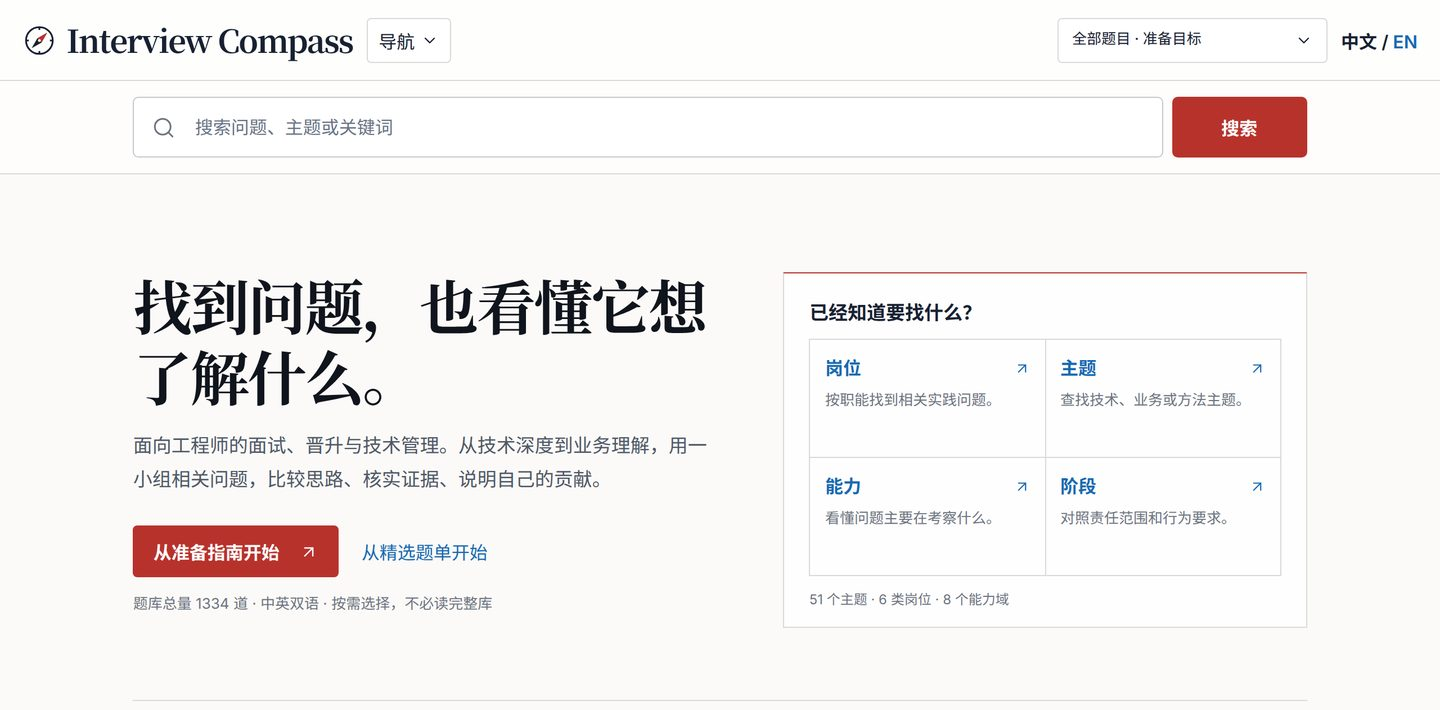
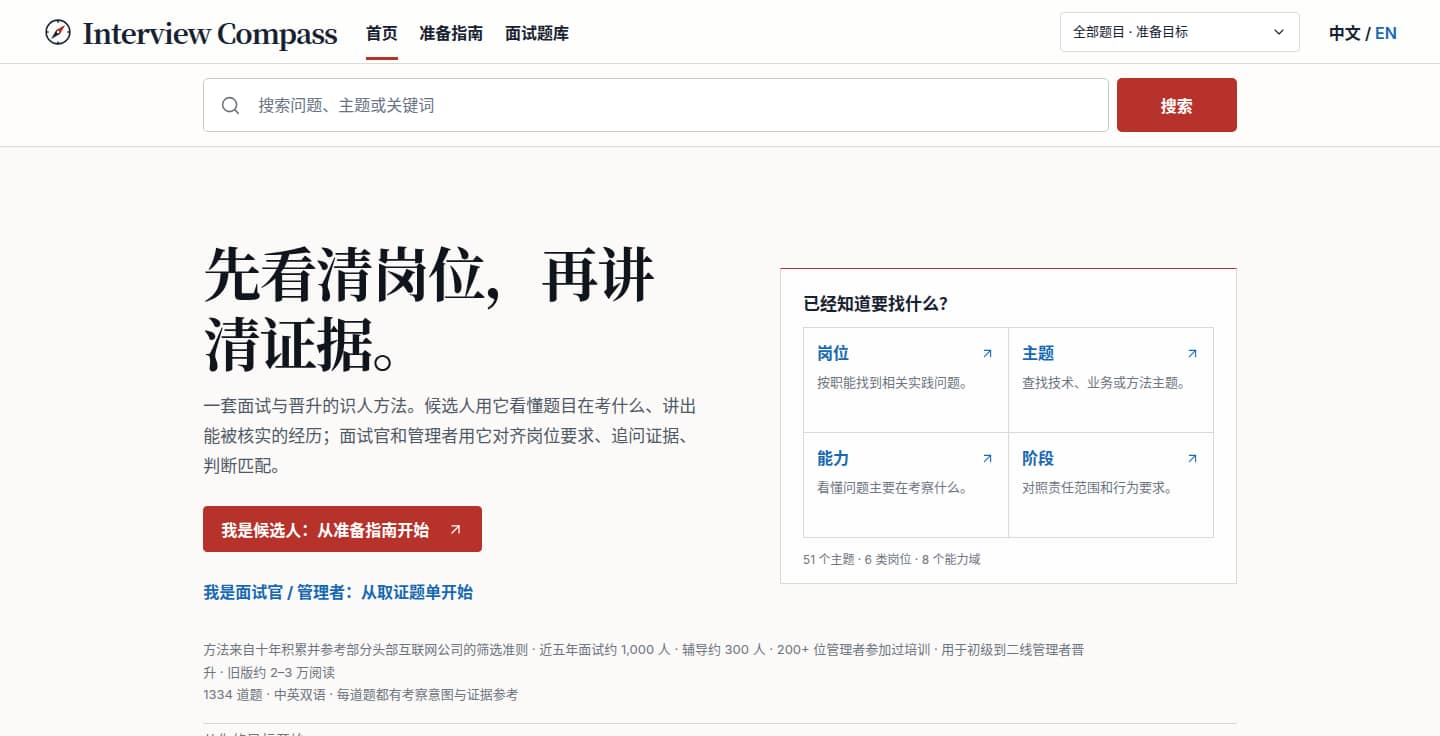
Position the site around knowing the role and showing evidence.
Put the shared slogan on the homepage, README, and approach page, add the approved practice record, and show the refund-timeout question as the method example.

diff --git a/src/styles/reading.css b/src/styles/reading.css
@@ -48,7 +48,7 @@
 .skip-link:focus { left: 12px; }
 .crumb-sep { color: var(--muted); }
 .hero { padding: 18px 0 8px; }
-.hero-compass { display: grid; grid-template-columns: minmax(0, 1.05fr) minmax(360px, .95fr); gap: clamp(28px, 5vw, 76px); align-items: center; padding: clamp(34px, 5vw, 68px) 0 clamp(38px, 5vw, 64px); border-bottom: 1px solid var(--line); }
+.hero-compass { display: grid; grid-template-columns: minmax(0, 1.05fr) minmax(360px, .95fr); gap: clamp(28px, 5vw, 76px); align-items: center; padding: clamp(34px, 5vw, 68px) 0 22px; }
 .hero-copy { max-width: 660px; }
 .hero-copy .eyebrow { color: var(--red); font-size: 12px; font-weight: 700; letter-spacing: .11em; }
 .hero-copy .page-title { max-width: 640px; margin-bottom: 16px; font-size: clamp(36px, 4.1vw, 58px); line-height: 1.2; }
@@ -56,7 +56,31 @@
 .hero-actions { display: flex; align-items: center; flex-wrap: wrap; gap: 16px 20px; margin-top: 25px; }
 .hero-primary { display: inline-flex; align-items: center; gap: 18px; min-height: 46px; padding: 0 17px; border: 1px solid var(--red); border-radius: 4px; background: var(--red); color: #fff; font-weight: 650; }
 .hero-primary:hover { background: #982b26; color: #fff; text-decoration: none; }
+.hero-secondary { display: inline-flex; align-items: center; min-height: 46px; font-weight: 650; }
 .hero-count { color: var(--muted); font-size: 13px; }
+.home-endorsement { padding: 2px 0 18px; border-bottom: 1px solid var(--line); }
+.home-endorsement p { max-width: 108ch; margin: 0; color: var(--muted); font-size: 13px; line-height: 1.7; }
+.home-endorsement-facts { color: #3d4654; }
+.home-endorsement-library { margin-top: 4px; }
+.home-method { padding: 6px 0 28px; border-bottom: 1px solid var(--line); }
+.home-method-lead { max-width: 72ch; margin: 0 0 16px; color: var(--muted); line-height: 1.7; }
+.home-method-card { padding: 18px 20px 16px; border: 1px solid var(--line); border-top: 3px solid var(--red); background: rgba(255,255,255,.72); }
+.home-method-card h3 { margin: 0 0 8px; font-size: 20px; line-height: 1.45; }
+.home-method-card h3 a { color: var(--ink); }
+.home-method-question { margin: 0 0 16px; color: #4f5866; line-height: 1.7; }
+.home-method-grid { display: grid; grid-template-columns: minmax(0, 1.05fr) minmax(0, 1.2fr) minmax(0, .95fr); gap: 18px 28px; }
+.home-method-grid h4 { margin: 0 0 8px; font-size: 13px; letter-spacing: .04em; color: var(--red); }
+.home-method-grid p, .home-method-grid li { color: #46505f; font-size: 14px; line-height: 1.65; }
+.home-method-grid p { margin: 0; }
+.home-method-grid ul, .home-method-grid ol { margin: 0; padding-left: 1.15rem; }
+.home-method-grid li + li { margin-top: 6px; }
+.home-method-anchors { list-style: none; padding-left: 0; }
+.home-method-anchors li { display: grid; grid-template-columns: auto minmax(0, 1fr); gap: 8px; }
+.home-method-anchors b { color: var(--ink); font-weight: 650; white-space: nowrap; }
+.home-close { margin: 8px 0 4px; padding: 22px 0 4px; border-top: 1px solid var(--line); }
+.home-close h2 { margin: 0 0 10px; font-size: 21px; }
+.home-close p { margin: 0; }
+.home-close a { display: inline-flex; align-items: center; gap: 6px; font-weight: 650; }
 .hero-entry-panel { padding: 21px 22px 16px; border: 1px solid var(--line); border-top-color: var(--red); background: rgba(255,255,255,.78); }
 .hero-entry-heading { display: flex; align-items: baseline; justify-content: space-between; gap: 12px; margin-bottom: 12px; }
 .hero-entry-heading h2 { margin: 0; font-size: 17px; font-weight: 650; }
@@ -477,15 +501,22 @@ details[open] > .disclosure-summary > .site-icon { transform: rotate(90deg); }
 .hero-entry { display: flex; flex-direction: column; gap: 8px; min-height: 105px; }
 .hero-entry strong { justify-content: space-between; }
 .hero-entry-description { font-size: 13px; }
+@media (max-width: 900px) {
+  .home-method-grid { grid-template-columns: 1fr; }
+}
 @media (max-width: 760px) {
   .home-page { display: flex; flex-direction: column; }
   .home-page .hero-compass { display: contents; }
   .home-page .hero-copy { order: 0; padding-top: 24px; }
-  .home-page .home-goals { order: 1; }
-  .home-page .hero-entry-panel { order: 3; }
-  .home-page .home-featured { order: 2; }
-  .home-page > .journey-next { order: 4; }
-  .home-goals .section-title { margin-top: 28px; }
+  .home-page .home-endorsement { order: 1; }
+  .home-page .audience-entry-section { order: 2; }
+  .home-page .hero-entry-panel { order: 3; margin-top: 8px; }
+  .home-page .home-method { order: 4; }
+  .home-page .home-featured { order: 5; }
+  .home-page > .journey-next { order: 6; }
+  .home-page .engineering-expansion { order: 7; }
+  .home-page .home-close { order: 8; }
+  .hero-actions { align-items: flex-start; }
 }
 .engineering-context { margin-block: 1rem; padding-block: .75rem; border-block: 1px solid var(--line); font-size: .875rem; }
 .engineering-context p { margin: .5rem 0 0; line-height: 1.7; color: var(--muted); }

diff --git a/README.md b/README.md
@@ -4,11 +4,31 @@
 [![Code: MIT](https://img.shields.io/badge/code-MIT-blue)](LICENSE)
 [![Content: CC BY-NC-SA 4.0](https://img.shields.io/badge/content-CC_BY--NC--SA_4.0-lightgrey)](CONTENT-LICENSE.md)
 
-面向工程师、面试官与管理者的双语面试 / 晋升参考库：先看清岗位目标与责任，再用问题、经历和证据判断能力与匹配度。
+**先看清岗位，再讲清证据。**
 
-A bilingual interview and promotion library for engineers, interviewers, and managers: understand the role and its responsibilities first, then use questions, experience, and evidence to assess capability and fit.
+中英双语的面试与晋升参考：把岗位要求、题目意图和可核实的证据连成一条线，候选人、面试官、管理者都能用。
+
+**Know the role. Show the evidence.**
+
+A bilingual interview and promotion reference that connects role expectations, question intent, and checkable evidence, for candidates, interviewers, and hiring managers.
 
 **[打开中文站点](https://liyuk.github.io/interview-compass/)** · **[Open the English site](https://liyuk.github.io/interview-compass/en/)**
+
+方法来自十年积累并参考部分头部互联网公司的筛选准则。
+
+- 近五年面试约 1,000 人；辅导约 300 人
+- 200+ 位管理者参加过培训
+- 用于初级到二线管理者晋升
+
+The method comes from ten years of accumulated practice and refers to screening criteria from some leading internet companies.
+
+- Interviewed about 1,000 people in the past five years; coached about 300 people
+- 200+ managers have attended training
+- Used for promotions from junior roles to second-line managers
+
+旧版约 2–3 万阅读。
+
+The earlier version had about 20–30k reads.
 
 ## What's inside
 
@@ -21,7 +41,7 @@ A bilingual interview and promotion library for engineers, interviewers, and man
 
 ## See it
 
-[![Interview Compass home: choose a preparation guide or a curated set](docs/assets/home.jpg)](https://liyuk.github.io/interview-compass/)
+[![Interview Compass home: Know the role. Show the evidence.](docs/assets/home.jpg)](https://liyuk.github.io/interview-compass/)
 
 [![A question page on personal contribution within a team result, with intent and evidence](docs/assets/question.jpg)](https://liyuk.github.io/interview-compass/questions/h-attribution-team-vs-personal/)
 
@@ -76,3 +96,5 @@ Role-specific models are in `src/content/role-stages/`. Each bilingual question 
 ## Deployment
 
 `.github/workflows/deploy.yml` runs the full CI sequence on pull requests, pushes to `main`, and manual dispatch: Astro type checks, content and source-ledger validation, complete stage-applicability coverage, unit tests, static build and Pagefind indexing, then desktop and mobile Chromium browser tests. It uploads a Pages artifact and deploys only from the repository's default branch (`main`); pull requests and feature branches verify the site without publishing it. The published site is at [liyuk.github.io/interview-compass](https://liyuk.github.io/interview-compass/), using GitHub Actions.
+
+觉得有用的话，欢迎在 GitHub 上点个 Star。If this helps, please ⭐ the repo.
